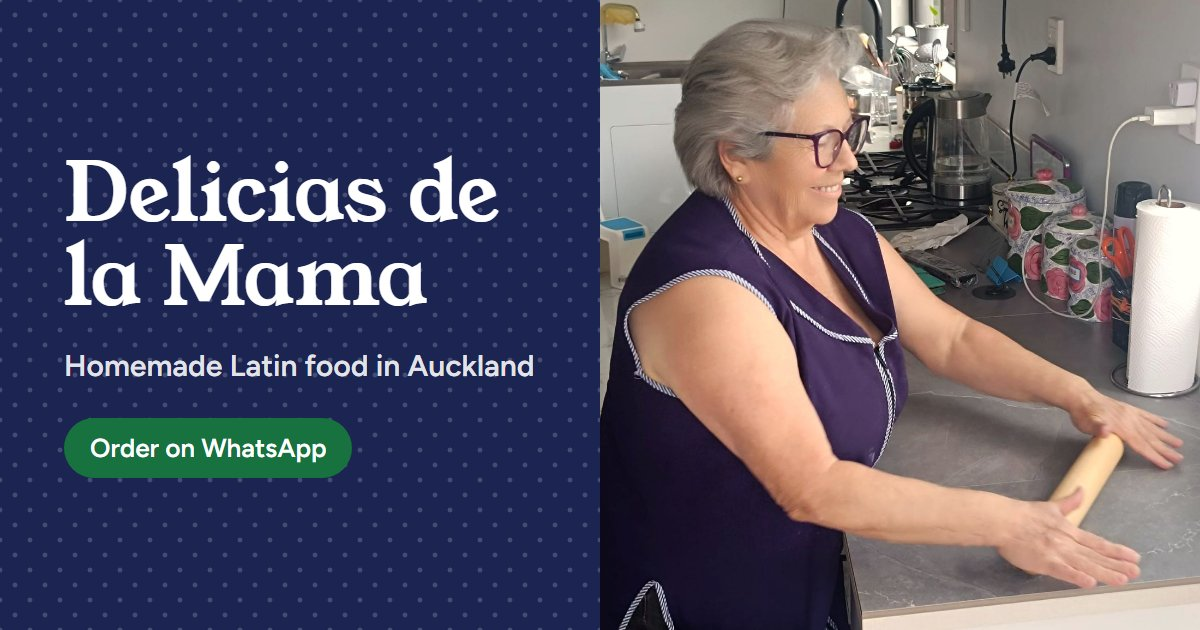
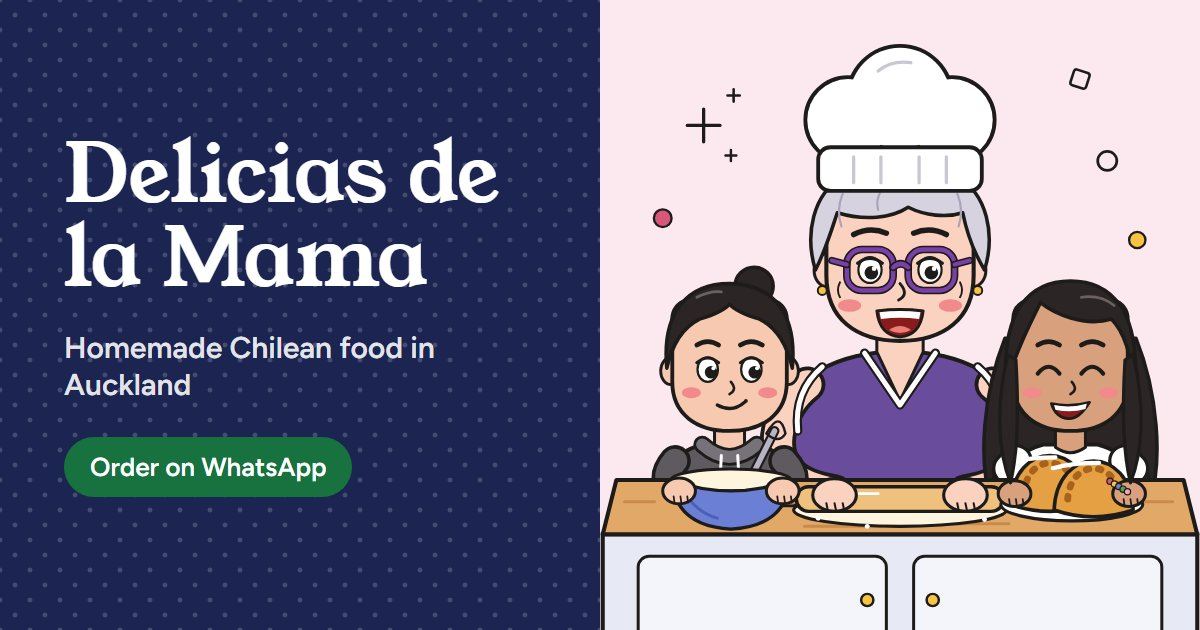
Add files via upload

diff --git a/index.html b/index.html
@@ -3,15 +3,15 @@
 <head>
 <meta charset="utf-8">
 <meta name="viewport" content="width=device-width, initial-scale=1">
-<title>Delicias de la Mama | Homemade Latin food in Auckland</title>
-<meta name="description" content="Empanadas, bread and sweets made by hand by la Mama in Auckland. See the menu and order on WhatsApp.">
+<title>Delicias de la Mama | Homemade Chilean food in Auckland</title>
+<meta name="description" content="Empanadas, sopaipillas, Pan de Pascua and sweets made by hand by la Mama in Auckland. See the menu and order on WhatsApp.">
 <link rel="canonical" href="https://deliciasdelamama.co.nz/">
 <meta name="theme-color" content="#1C2452">
 
 <meta property="og:type" content="website">
 <meta property="og:url" content="https://deliciasdelamama.co.nz/">
 <meta property="og:title" content="Delicias de la Mama">
-<meta property="og:description" content="Homemade Latin food, made by hand in Auckland. Order on WhatsApp.">
+<meta property="og:description" content="Homemade Chilean food, made by hand in Auckland. Order on WhatsApp.">
 <meta property="og:image" content="https://deliciasdelamama.co.nz/assets/og-image.jpg">
 <meta property="og:image:width" content="1200">
 <meta property="og:image:height" content="630">
@@ -32,7 +32,7 @@
   "image": "https://deliciasdelamama.co.nz/assets/og-image.jpg",
   "telephone": "+64 21 821 450",
   "email": "deliciasdelamamanz@gmail.com",
-  "servesCuisine": "Latin American",
+  "servesCuisine": "Chilean",
   "areaServed": "Auckland",
   "address": { "@type": "PostalAddress", "addressLocality": "Auckland", "addressCountry": "NZ" }
 }
@@ -137,14 +137,16 @@ a{ color:inherit; }
 .lang button[aria-pressed="true"]{ background:var(--ink); color:#fff; }
 .top .btn{ min-height:42px; padding:0 16px; font-size:.92rem; }
 .top .btn svg{ width:20px; height:20px; }
+@media (max-width:720px){
+  .top .btn .wa-label{ display:none; }
+  .top .btn{ padding:0; width:42px; }
+}
 @media (max-width:420px){
   .brand{ gap:8px; }
   .brand-mark{ width:26px; height:26px; }
   .brand-name{ font-size:1rem; }
   .top-actions{ gap:6px; }
   .lang button{ padding:5px 8px; }
-  .top .btn .wa-label{ display:none; }
-  .top .btn{ padding:0; width:42px; }
 }
 
 /* ===== Hero ===== */
@@ -155,12 +157,12 @@ a{ color:inherit; }
 .hero-sub{ margin-top:20px; font-size:1.12rem; line-height:1.55; max-width:44ch; color:rgba(255,255,255,.88); }
 .hero-ctas{ display:flex; flex-wrap:wrap; gap:12px; margin-top:30px; }
 .hero-photo{ position:relative; margin:0 calc(var(--gutter) * -1); }
-.hero-photo img{ width:100%; aspect-ratio:4/4.3; object-fit:cover; object-position:30% 20%; }
+.hero-photo img{ width:100%; aspect-ratio:4/4.2; object-fit:cover; object-position:50% 0%; background:#FCE9EF; }
 @media (min-width:900px){
   .hero .wrap{ grid-template-columns:1.05fr .95fr; gap:56px; padding-top:72px; }
   .hero-copy{ padding-bottom:110px; }
   .hero-photo{ margin:0 0 -1px; align-self:end; }
-  .hero-photo img{ aspect-ratio:4/4.6; border-radius:220px 220px 0 0; border:8px solid #fff; border-bottom:0; }
+  .hero-photo img{ aspect-ratio:440/462; border-radius:220px 220px 0 0; border:8px solid #fff; border-bottom:0; }
 }
 @media (prefers-reduced-motion:no-preference){
   .hero-copy > *{ animation:rise .7s cubic-bezier(.2,.7,.2,1) both; }
@@ -193,6 +195,7 @@ a{ color:inherit; }
 .dish{ display:flex; flex-direction:column; }
 .dish-photo{ aspect-ratio:4/3; border-radius:18px; overflow:hidden; background-color:var(--marmol); }
 .dish-photo.dots{ background-color:var(--ink); }
+.dish-photo.illo img{ object-fit:contain; }
 .dish-photo img{ width:100%; height:100%; object-fit:cover; }
 /* until a real food photo exists, the dish gets a polka-dot label tile */
 .dish-photo.dots{
@@ -270,6 +273,7 @@ a{ color:inherit; }
 .foot-tag{ margin-top:10px; }
 .foot ul{ list-style:none; margin:0; padding:0; display:grid; gap:10px; }
 .foot a{ color:#fff; text-decoration-color:rgba(255,255,255,.4); text-underline-offset:3px; }
+.foot-credits{ grid-column:1 / -1; font-size:.78rem; color:rgba(255,255,255,.5); margin-top:-14px; }
 .foot-legal{ grid-column:1 / -1; font-size:.85rem; color:rgba(255,255,255,.6); border-top:1px solid rgba(255,255,255,.15); padding-top:20px; }
 </style>
 </head>
@@ -305,8 +309,8 @@ a{ color:inherit; }
   <section class="hero dots">
     <div class="wrap">
       <div class="hero-copy">
-        <h1 data-i18n="hero_title">Homemade Latin food from la Mama's kitchen</h1>
-        <p class="hero-sub" data-i18n="hero_sub">Empanadas, bread and sweets made by hand in small batches in Auckland. See the menu and order on WhatsApp.</p>
+        <h1 data-i18n="hero_title">Homemade Chilean food from la Mama's kitchen</h1>
+        <p class="hero-sub" data-i18n="hero_sub">Empanadas, sopaipillas, Pan de Pascua and sweets made by hand in small batches in Auckland. See the menu and order on WhatsApp.</p>
         <div class="hero-ctas">
           <a class="btn btn--light" href="#menu" data-i18n="hero_cta">See the menu</a>
           <a class="btn btn--ghost js-ask" href="#" target="_blank" rel="noopener">
@@ -315,11 +319,8 @@ a{ color:inherit; }
         </div>
       </div>
       <figure class="hero-photo" style="margin-block:0">
-        <picture>
-          <source srcset="assets/mama-hero.webp" type="image/webp">
-          <img src="assets/mama-hero.jpg" width="1100" height="1252" fetchpriority="high"
-               data-i18n-alt="hero_alt" alt="La Mama smiling as she rolls dough with a wooden rolling pin in her kitchen">
-        </picture>
+        <img src="assets/illustrations/familia-chef.svg" width="440" height="462" fetchpriority="high"
+             data-i18n-alt="hero_alt" alt="Illustration of la Mama in a chef's hat, rolling dough with her two granddaughters">
       </figure>
     </div>
   </section>
@@ -329,13 +330,13 @@ a{ color:inherit; }
     <div class="wrap">
       <div class="section-head">
         <h2 id="menu-title" data-i18n="menu_title">The menu</h2>
-        <p data-i18n="menu_sub">Prices in NZD. Tap "Order on WhatsApp" on any dish and the message is already written.</p>
+        <p data-i18n="menu_sub">Tap "Order on WhatsApp" on any dish to ask for quantities, price and the day it can be ready. The message is already written.</p>
         <p class="dd-row js-dd" hidden>
           <span data-i18n="dd_row">Prefer an app?</span>
           <a class="btn btn--dd js-dd-link" href="#" target="_blank" rel="noopener" data-i18n="dd_btn">Order on DoorDash</a>
         </p>
       </div>
-      <p class="sample-note" id="sample-note" hidden data-i18n="sample_note">Sample menu: dishes, photos and prices are placeholders until la Mama confirms them.</p>
+      <p class="sample-note" id="sample-note" hidden data-i18n="sample_note">Sample menu: dishes and prices are placeholders until la Mama confirms them.</p>
       <ul class="dishes" id="dishes"></ul>
     </div>
   </section>
@@ -418,7 +419,7 @@ a{ color:inherit; }
   <div class="wrap">
     <div>
       <span class="brand-name">Delicias de la Mama</span>
-      <p class="foot-tag" data-i18n="foot_tag">Homemade Latin food in Auckland, New Zealand.</p>
+      <p class="foot-tag" data-i18n="foot_tag">Homemade Chilean food in Auckland, New Zealand.</p>
     </div>
     <ul>
       <li><a class="js-ask" href="#" target="_blank" rel="noopener">WhatsApp +64 21 821 450</a></li>
@@ -427,6 +428,7 @@ a{ color:inherit; }
       <li id="foot-fb" hidden><a id="foot-fb-link" href="#" target="_blank" rel="noopener">Facebook</a></li>
     </ul>
     <p class="foot-legal">&copy; <span id="year">2026</span> Delicias de la Mama</p>
+    <p class="foot-credits">Menu photos are for reference. Photos: <a href="https://unsplash.com" target="_blank" rel="noopener">Unsplash</a>; sopaipillas by Warko, <a href="https://commons.wikimedia.org/wiki/File:Sopaipillas_en_Curarrehue.JPG" target="_blank" rel="noopener">Wikimedia Commons</a>, <a href="https://creativecommons.org/licenses/by-sa/3.0" target="_blank" rel="noopener">CC BY-SA 3.0</a>.</p>
   </div>
 </footer>
 
@@ -439,32 +441,36 @@ const CONFIG = {
   doordashUrl: '',               // paste the DoorDash store link when approved: buttons appear on their own
   facebookUrl: '',               // paste the Facebook page link when it exists
   marketplaceUrl: '',            // paste the Marketplace profile link when it exists
-  sampleMenu: true               // set to false once the real dishes, photos and prices are in
+  sampleMenu: false              // set to false once the real dishes, photos and prices are in
 };
 
 // photo: put the file in assets/menu/ and write its path, e.g. 'assets/menu/empanadas.jpg'
 // Leave photo empty ('') to show the polka-dot label instead.
 const MENU = [
-  { id:'emp-carne', price:30, photo:'',
-    name:{ en:'Beef empanadas', es:'Empanadas de carne' },
-    desc:{ en:'Seasoned beef and onion, baked until golden.', es:'Carne sazonada con cebolla, horneadas hasta dorar.' },
-    unit:{ en:'Pack of 6', es:'Pack de 6' } },
-  { id:'emp-queso', price:27, photo:'',
+  { id:'empanadas-pino', price:null, photo:'assets/menu/empanadas-pino.jpg',
+    name:{ en:'Empanadas de pino', es:'Empanadas de pino' },
+    desc:{ en:'Baked Chilean empanadas: beef, onion, egg, olive and raisins.', es:'Empanadas chilenas al horno: carne, cebolla, huevo, aceituna y pasas.' },
+    unit:null },
+  { id:'empanadas-queso', price:null, photo:'assets/menu/empanadas-queso.jpg',
     name:{ en:'Cheese empanadas', es:'Empanadas de queso' },
     desc:{ en:'Melted cheese in a crisp, hand-rolled pastry.', es:'Queso derretido en masa crujiente estirada a mano.' },
-    unit:{ en:'Pack of 6', es:'Pack de 6' } },
-  { id:'pan', price:12, photo:'',
-    name:{ en:'Homemade bread rolls', es:'Pan casero' },
-    desc:{ en:'Soft rolls, shaped by hand.', es:'Pancitos suaves formados a mano.' },
-    unit:{ en:'Bag of 10', es:'Bolsa de 10' } },
-  { id:'alfajores', price:15, photo:'',
-    name:{ en:'Alfajores', es:'Alfajores' },
-    desc:{ en:'Soft shortbread biscuits filled with dulce de leche.', es:'Galletas suaves rellenas de dulce de leche.' },
-    unit:{ en:'Box of 6', es:'Caja de 6' } },
-  { id:'tres-leches', price:45, photo:'',
-    name:{ en:'Tres leches cake', es:'Torta tres leches' },
-    desc:{ en:'Sponge soaked in three kinds of milk, served cold.', es:'Bizcocho bañado en tres leches, para servir frío.' },
-    unit:{ en:'Whole cake, serves 10', es:'Torta entera, 10 porciones' } }
+    unit:null },
+  { id:'sopaipillas', price:null, photo:'assets/menu/sopaipillas.jpg',
+    name:{ en:'Sopaipillas', es:'Sopaipillas' },
+    desc:{ en:'Pumpkin dough rounds, fried until crisp outside and soft inside.', es:'Masa de zapallo frita, crujiente por fuera y suave por dentro.' },
+    unit:null },
+  { id:'pan-de-pascua', price:null, photo:'assets/menu/pan-de-pascua.jpg',
+    name:{ en:'Pan de Pascua', es:'Pan de Pascua' },
+    desc:{ en:'Chilean Christmas cake with dried fruit, nuts and spices.', es:'Queque navideño chileno con frutas confitadas, nueces y especias.' },
+    unit:null },
+  { id:'dulces', price:null, photo:'assets/menu/dulces.jpg',
+    name:{ en:'Chilean sweets', es:'Dulces chilenos' },
+    desc:{ en:"Alfajores, chilenitos and more. Ask for this week's mix.", es:'Alfajores, chilenitos y más. Pregunta por la mezcla de la semana.' },
+    unit:null },
+  { id:'tortas', price:null, photo:'assets/menu/tortas.jpg',
+    name:{ en:'Cakes to order', es:'Tortas por encargo' },
+    desc:{ en:'Whole cakes such as mil hojas or tres leches. Order a few days ahead.', es:'Tortas enteras como mil hojas o tres leches. Encárgala con unos días de anticipación.' },
+    unit:null }
 ];
 
 /* =========================================================
@@ -473,15 +479,15 @@ const MENU = [
 const T = {
   en:{
     skip:'Skip to the menu',
-    hero_title:"Homemade Latin food from la Mama's kitchen",
-    hero_sub:'Empanadas, bread and sweets made by hand in small batches in Auckland. See the menu and order on WhatsApp.',
+    hero_title:"Homemade Chilean food from la Mama's kitchen",
+    hero_sub:'Empanadas, sopaipillas, Pan de Pascua and sweets made by hand in small batches in Auckland. See the menu and order on WhatsApp.',
     hero_cta:'See the menu', hero_ask:'Order on WhatsApp',
-    hero_alt:'La Mama smiling as she rolls dough with a wooden rolling pin in her kitchen',
+    hero_alt:"Illustration of la Mama in a chef's hat, rolling dough with her two granddaughters",
     menu_title:'The menu',
-    menu_sub:'Prices in NZD. Tap "Order on WhatsApp" on any dish and the message is already written.',
-    sample_note:'Sample menu: dishes, photos and prices are placeholders until la Mama confirms them.',
-    dish_wa:'Order on WhatsApp', dish_dd:'DoorDash',
-    dish_msg:"Hi! I'd like to order: {dish} ({unit}). Which day could it be ready?",
+    menu_sub:'Tap "Order on WhatsApp" on any dish to ask for quantities, price and the day it can be ready. The message is already written.',
+    sample_note:'Sample menu: dishes and prices are placeholders until la Mama confirms them.',
+    dish_wa:'Order on WhatsApp', dish_dd:'DoorDash', illo:'illustration',
+    dish_msg:"Hi! I'd like to order {dish}. What quantities do you have, what is the price, and which day could it be ready?",
     dd_row:'Prefer an app?', dd_btn:'Order on DoorDash',
     steps_title:'How to order',
     s1_t:'Choose', s1_d:"Look through the menu and pick what you'd like.",
@@ -501,20 +507,20 @@ const T = {
     a2_dd:'Yes, through DoorDash: order in the app and a driver brings it to your door. You can also ask la Mama on WhatsApp.',
     q3:'How do I pay?', a3:'La Mama tells you how to pay when she confirms your order on WhatsApp.',
     q4:'What about allergies?', a4:'Tell la Mama in your WhatsApp message and she will tell you exactly what goes into each dish.',
-    foot_tag:'Homemade Latin food in Auckland, New Zealand.',
+    foot_tag:'Homemade Chilean food in Auckland, New Zealand.',
     ask_msg:'Hi! I have a question for Delicias de la Mama.'
   },
   es:{
     skip:'Ir al menú',
-    hero_title:'Comida casera latina, hecha en la cocina de la Mama',
-    hero_sub:'Empanadas, pan y dulces hechos a mano, en pequeñas tandas, en Auckland. Mira el menú y pide por WhatsApp.',
+    hero_title:'Comida casera chilena, hecha en la cocina de la Mama',
+    hero_sub:'Empanadas, sopaipillas, Pan de Pascua y dulces hechos a mano, en pequeñas tandas, en Auckland. Mira el menú y pide por WhatsApp.',
     hero_cta:'Ver el menú', hero_ask:'Pedir por WhatsApp',
-    hero_alt:'La Mama sonriendo mientras estira la masa con un uslero de madera en su cocina',
+    hero_alt:'Ilustración de la Mama con gorro de chef, estirando masa con sus dos nietas',
     menu_title:'El menú',
-    menu_sub:'Precios en NZD. Toca "Pedir por WhatsApp" en cualquier plato y el mensaje ya va escrito.',
-    sample_note:'Menú de ejemplo: los platos, fotos y precios son provisorios hasta que la Mama los confirme.',
-    dish_wa:'Pedir por WhatsApp', dish_dd:'DoorDash',
-    dish_msg:'¡Hola! Quiero pedir: {dish} ({unit}). ¿Para qué día estaría listo?',
+    menu_sub:'Toca "Pedir por WhatsApp" en cualquier plato para preguntar cantidades, precio y el día que puede estar listo. El mensaje ya va escrito.',
+    sample_note:'Menú de ejemplo: los platos y precios son provisorios hasta que la Mama los confirme.',
+    dish_wa:'Pedir por WhatsApp', dish_dd:'DoorDash', illo:'ilustración',
+    dish_msg:'¡Hola! Quiero pedir {dish}. ¿Qué cantidades tienen, cuál es el precio y para qué día estaría listo?',
     dd_row:'¿Prefieres una app?', dd_btn:'Pedir en DoorDash',
     steps_title:'Cómo pedir',
     s1_t:'Elige', s1_d:'Mira el menú y elige lo que quieras.',
@@ -534,7 +540,7 @@ const T = {
     a2_dd:'Sí, por DoorDash: pide en la app y un repartidor te lo lleva a la puerta. También puedes preguntarle a la Mama por WhatsApp.',
     q3:'¿Cómo pago?', a3:'La Mama te dice cómo pagar cuando confirma tu pedido por WhatsApp.',
     q4:'¿Y si tengo alergias?', a4:'Cuéntale a la Mama en tu mensaje de WhatsApp y ella te dirá exactamente qué lleva cada plato.',
-    foot_tag:'Comida casera latina en Auckland, Nueva Zelanda.',
+    foot_tag:'Comida casera chilena en Auckland, Nueva Zelanda.',
     ask_msg:'¡Hola! Tengo una consulta para Delicias de la Mama.'
   }
 };
@@ -557,9 +563,10 @@ const T = {
 
   function renderMenu(){
     $('#dishes').innerHTML = MENU.map(m => {
-      const msg = t('dish_msg').replace('{dish}', m.name[lang]).replace('{unit}', m.unit[lang]);
+      const msg = t('dish_msg').replace('{dish}', m.name[lang]);
+      const illo = /\.svg$/i.test(m.photo || '');
       const photo = m.photo
-        ? `<div class="dish-photo"><img src="${esc(m.photo)}" alt="${esc(m.name[lang])}" loading="lazy" width="800" height="600"></div>`
+        ? `<div class="dish-photo${illo ? ' dots illo' : ''}"><img src="${esc(m.photo)}" alt="${esc(m.name[lang])}${illo ? ' (' + t('illo') + ')' : ''}" loading="lazy" width="${illo ? 400 : 800}" height="300"></div>`
         : `<div class="dish-photo dots" aria-hidden="true">${esc(m.name[lang])}</div>`;
       const dd = CONFIG.doordashUrl
         ? `<a class="btn btn--dd" href="${esc(CONFIG.doordashUrl)}" target="_blank" rel="noopener">${t('dish_dd')}</a>` : '';
@@ -568,10 +575,9 @@ const T = {
         ${photo}
         <div class="dish-head">
           <h3 class="dish-name">${esc(m.name[lang])}</h3>
-          <span class="leader" aria-hidden="true"></span>
-          <span class="dish-price">${money(m.price)}</span>
+          ${m.price ? `<span class="leader" aria-hidden="true"></span><span class="dish-price">${money(m.price)}</span>` : ''}
         </div>
-        <p class="dish-desc">${esc(m.desc[lang])}<span class="dish-unit">${esc(m.unit[lang])}</span></p>
+        <p class="dish-desc">${esc(m.desc[lang])}${m.unit ? `<span class="dish-unit">${esc(m.unit[lang])}</span>` : ''}</p>
         <div class="dish-actions">
           <a class="btn btn--wa" href="${waLink(msg)}" target="_blank" rel="noopener">
             <svg aria-hidden="true"><use href="#i-wa"/></svg>${t('dish_wa')}
